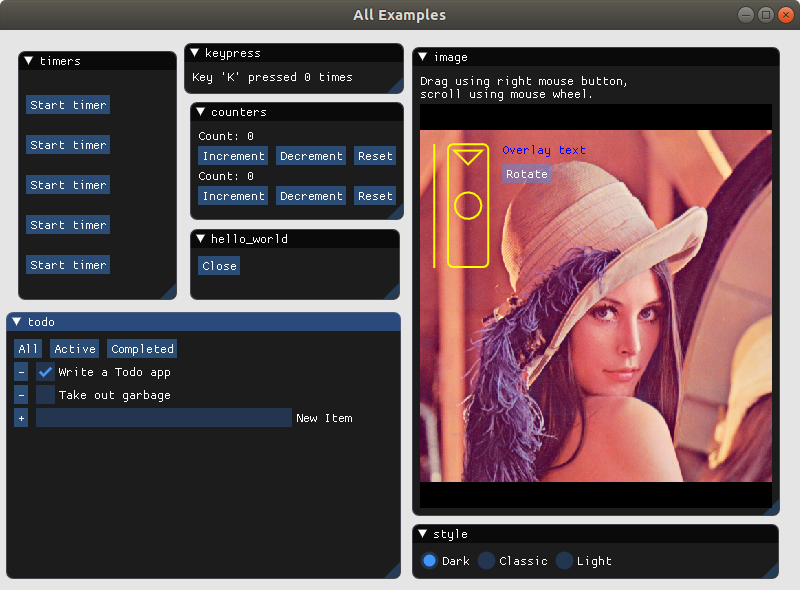
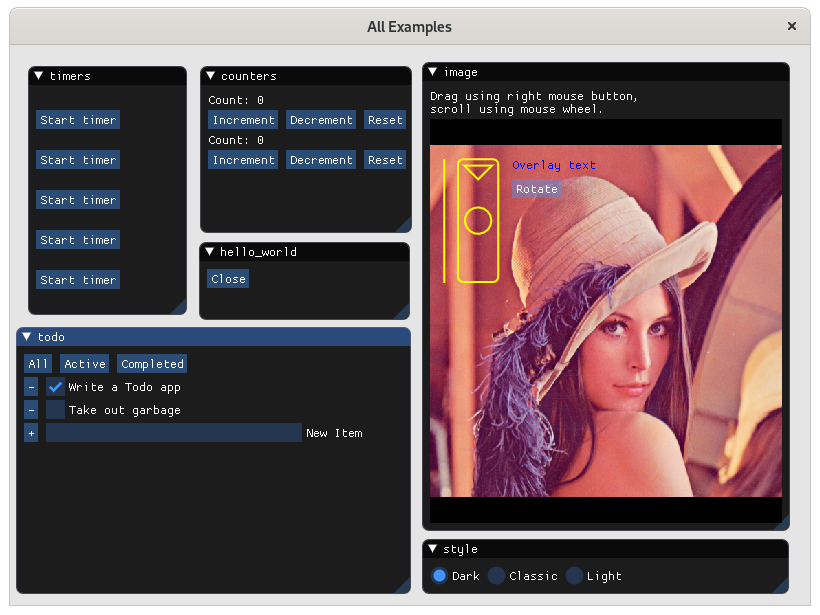
Update screenshot and docs

diff --git a/docs/widgets.html b/docs/widgets.html
@@ -123,15 +123,16 @@ def input_text(name, value, buffer_length, tag=None):
             yield
 
 
-def key_pressed(name, key_index, repeat=True):
-    &#34;&#34;&#34; Invisible widget that waits for a given key to be pressed.
-
-    Key codes are specified by the integration layer, e.g. `glfw.KEY_A`.
-    &#34;&#34;&#34;
-    while True:
-        if imgui.is_key_pressed(key_index, repeat):
-            return name, None
-        yield
+# TODO: contribute is_key_pressed to PyImGui and re-introduce this function
+# def key_pressed(name, key_index, repeat=True):
+#     &#34;&#34;&#34; Invisible widget that waits for a given key to be pressed.
+#
+#     Key codes are specified by the integration layer, e.g. `glfw.KEY_A`.
+#     &#34;&#34;&#34;
+#     while True:
+#         if imgui.is_key_pressed(key_index, repeat):
+#             return name, None
+#         yield
 
 
 def text(s):
@@ -289,27 +290,6 @@ def transform(x, y, widget, tf=None):
             return (name if tag is None else tag), new_value
         else:
             yield</code></pre>
-</details>
-</dd>
-<dt id="concur.widgets.key_pressed"><code class="name flex">
-<span>def <span class="ident">key_pressed</span></span>(<span>name, key_index, repeat=True)</span>
-</code></dt>
-<dd>
-<section class="desc"><p>Invisible widget that waits for a given key to be pressed.</p>
-<p>Key codes are specified by the integration layer, e.g. <code>glfw.KEY_A</code>.</p></section>
-<details class="source">
-<summary>
-<span>Expand source code</span>
-</summary>
-<pre><code class="python">def key_pressed(name, key_index, repeat=True):
-    &#34;&#34;&#34; Invisible widget that waits for a given key to be pressed.
-
-    Key codes are specified by the integration layer, e.g. `glfw.KEY_A`.
-    &#34;&#34;&#34;
-    while True:
-        if imgui.is_key_pressed(key_index, repeat):
-            return name, None
-        yield</code></pre>
 </details>
 </dd>
 <dt id="concur.widgets.orr_same_line"><code class="name flex">
@@ -549,7 +529,6 @@ is at <code>[x, y]</code>.</p></section>
 <li><code><a title="concur.widgets.child" href="#concur.widgets.child">child</a></code></li>
 <li><code><a title="concur.widgets.drag_float" href="#concur.widgets.drag_float">drag_float</a></code></li>
 <li><code><a title="concur.widgets.input_text" href="#concur.widgets.input_text">input_text</a></code></li>
-<li><code><a title="concur.widgets.key_pressed" href="#concur.widgets.key_pressed">key_pressed</a></code></li>
 <li><code><a title="concur.widgets.orr_same_line" href="#concur.widgets.orr_same_line">orr_same_line</a></code></li>
 <li><code><a title="concur.widgets.radio_button" href="#concur.widgets.radio_button">radio_button</a></code></li>
 <li><code><a title="concur.widgets.same_line" href="#concur.widgets.same_line">same_line</a></code></li>

diff --git a/docs/draw.html b/docs/draw.html
@@ -103,7 +103,7 @@ def polyline(points, color, closed=False, thickness=1, tf=None):
             else:
                 points = [list(np.matmul(tf.c2s, [x, y, 1])) for x, y in points]
         draw_list = imgui.get_window_draw_list()
-        draw_list.add_polyline(points, imgui.get_color_u32_rgba(*color), closed, thickness)
+        draw_list.add_polyline(points.tolist(), imgui.get_color_u32_rgba(*color), closed, thickness)
         yield
 
 
@@ -228,7 +228,7 @@ def image(tex_id, w, h, tf):
             else:
                 points = [list(np.matmul(tf.c2s, [x, y, 1])) for x, y in points]
         draw_list = imgui.get_window_draw_list()
-        draw_list.add_polyline(points, imgui.get_color_u32_rgba(*color), closed, thickness)
+        draw_list.add_polyline(points.tolist(), imgui.get_color_u32_rgba(*color), closed, thickness)
         yield</code></pre>
 </details>
 </dd>

diff --git a/concur/widgets.py b/concur/widgets.py
@@ -89,15 +89,16 @@ def input_text(name, value, buffer_length, tag=None):
             yield
 
 
-def key_pressed(name, key_index, repeat=True):
-    """ Invisible widget that waits for a given key to be pressed.
-
-    Key codes are specified by the integration layer, e.g. `glfw.KEY_A`.
-    """
-    while True:
-        if imgui.is_key_pressed(key_index, repeat):
-            return name, None
-        yield
+# TODO: contribute is_key_pressed to PyImGui and re-introduce this function
+# def key_pressed(name, key_index, repeat=True):
+#     """ Invisible widget that waits for a given key to be pressed.
+#
+#     Key codes are specified by the integration layer, e.g. `glfw.KEY_A`.
+#     """
+#     while True:
+#         if imgui.is_key_pressed(key_index, repeat):
+#             return name, None
+#         yield
 
 
 def text(s):

diff --git a/examples/image.py b/examples/image.py
@@ -2,6 +2,7 @@
 
 import concur as c
 from PIL import Image
+import numpy as np
 
 
 def overlay(tf):
@@ -11,7 +12,7 @@ def overlay(tf):
         , c.draw.rect(40, 20, 100, 200, yellow, 2, 5, tf=tf)
         , c.draw.circle(70, 110, 20, yellow, 2, 16, tf=tf)
         , c.draw.text(120, 20, (0,0,1,1), "Overlay text", tf=tf)
-        , c.draw.polyline([(50, 30), (90, 30), (70, 50)], yellow, True, 2, tf=tf)
+        , c.draw.polyline(np.array([(50, 30), (90, 30), (70, 50)]), yellow, True, 2, tf=tf)
         , c.transform(120, 50, c.button("Rotate"), tf=tf)
         ])
 

diff --git a/concur/draw.py b/concur/draw.py
@@ -69,7 +69,7 @@ def polyline(points, color, closed=False, thickness=1, tf=None):
             else:
                 points = [list(np.matmul(tf.c2s, [x, y, 1])) for x, y in points]
         draw_list = imgui.get_window_draw_list()
-        draw_list.add_polyline(points, imgui.get_color_u32_rgba(*color), closed, thickness)
+        draw_list.add_polyline(points.tolist(), imgui.get_color_u32_rgba(*color), closed, thickness)
         yield
 
 
